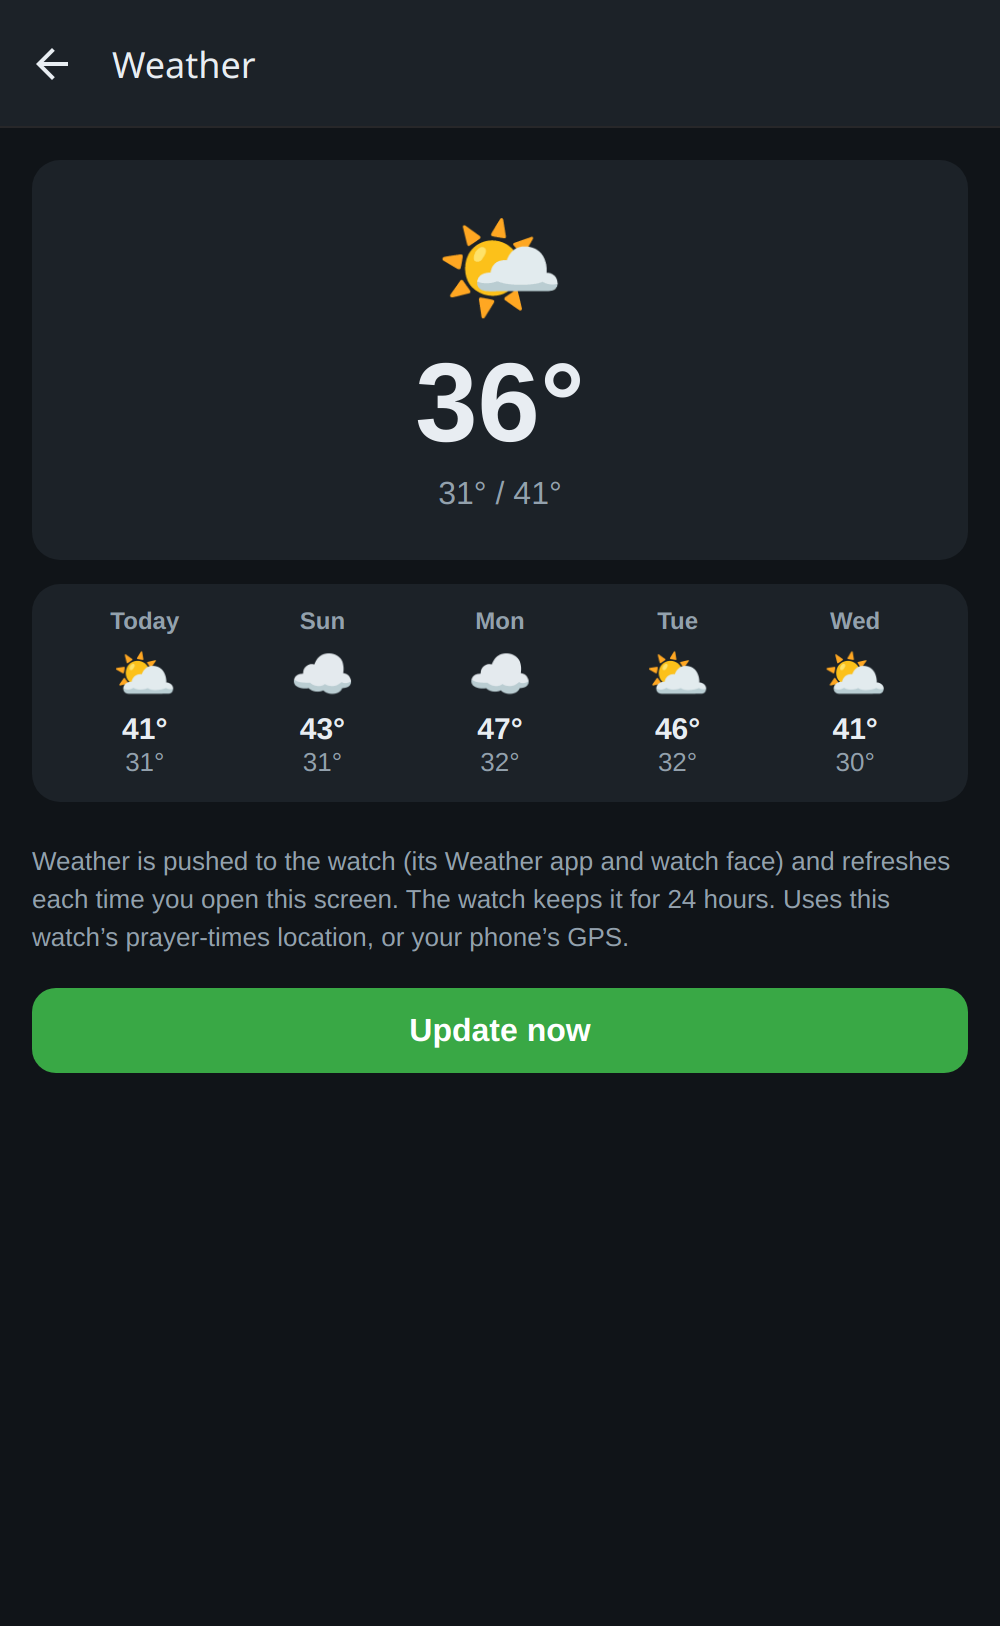
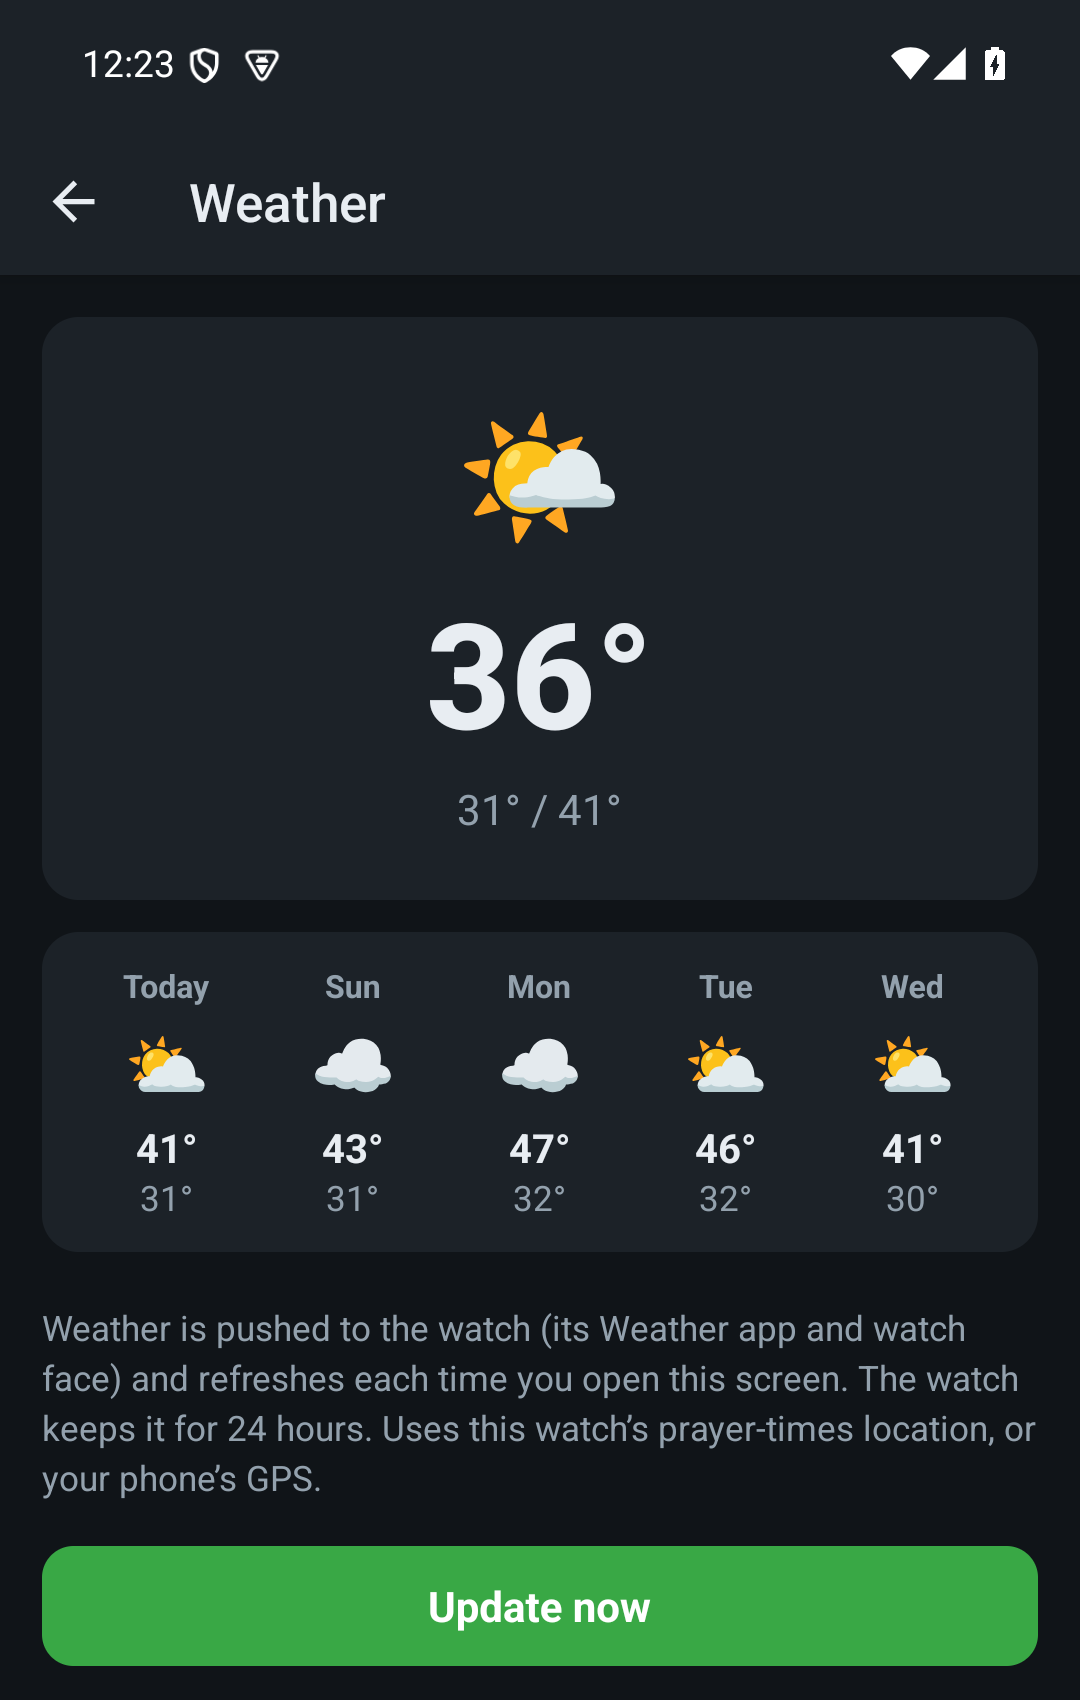
docs: capture companion guide screenshots from the real app
Wrong convention was baked into the guide: companion screenshots came from the
headless web export, which renders a fake phone and shows an 'Android only'
placeholder for anything Android-gated — so it couldn't depict forwarding at all.
Companion shots now default to the real Android app.

- Recaptured companion-hub, companion-weather, companion-steps from a
  self-contained release APK (debug-signed, JS bundled — no Metro), driven
  against the sim; added companion-notifications (the forwarding config screen,
  previously uncapturable on web).
- Notifications guide page now shows the phone config between the watch shots
  (forwarded alert -> companion Notifications -> Music app).
- README documents the app-default capture flow (release APK + sqlite seed +
  screencap).

Also fixes a real UX wart the capture surfaced: a media session with no
title/artist rendered 'Unknown - Unknown' on the now-playing line; it now reads
'Nothing playing'. 103 tests pass.

Still web-era (follow-up): companion pair/schedule/alarms/prayer/event-complex/
findmy/findmy-map/update.

diff --git a/src/screens/NotificationsScreen.tsx b/src/screens/NotificationsScreen.tsx
@@ -98,6 +98,11 @@ export function NotificationsScreen({ route }: Props) {
   }
 
   const paired = !!watch.deviceId;
+  // A media session with no title/artist isn't meaningfully "playing" anything.
+  const playingLabel =
+    nowPlaying && (nowPlaying.artist || nowPlaying.track)
+      ? `${nowPlaying.artist || 'Unknown'} — ${nowPlaying.track || 'Unknown'}`
+      : null;
 
   return (
     <ScrollView style={styles.container} contentContainerStyle={{ padding: spacing(2), paddingBottom: spacing(2) + insets.bottom }}>
@@ -128,9 +133,9 @@ export function NotificationsScreen({ route }: Props) {
 
       {watch.forwardNotifications && (
         <View style={styles.nowPlayingRow} testID="now-playing">
-          <Text style={styles.nowPlayingIcon}>{nowPlaying?.playing ? '🎵' : '🎧'}</Text>
+          <Text style={styles.nowPlayingIcon}>{playingLabel ? '🎵' : '🎧'}</Text>
           <Text style={styles.nowPlayingText} numberOfLines={1}>
-            {nowPlaying ? `${nowPlaying.artist || 'Unknown'} — ${nowPlaying.track || 'Unknown'}` : 'Nothing playing'}
+            {playingLabel ?? 'Nothing playing'}
           </Text>
         </View>
       )}

diff --git a/docs/guide/build-feature-guide.py b/docs/guide/build-feature-guide.py
@@ -158,8 +158,9 @@ parts.append(f"""
   <h2>Your phone on your wrist</h2>
   <p class="lead">On Android the app keeps a background connection to the watch and mirrors your phone &mdash; notifications, incoming calls, and now-playing music &mdash; all under one per-watch switch.</p>
   <div class="row center gap">
-    {watch("watch-notification.png", "A forwarded phone notification")}
-    {watch("watch-music.png", "Now-playing pushed to the Music app")}
+    {watch("watch-notification.png", "Forwarded notification")}
+    {phone("companion-notifications.png", "Companion → Notifications")}
+    {watch("watch-music.png", "Now-playing on the Music app")}
   </div>
   <div class="note">
     <b>Notification forwarding, per watch.</b> Turn on <b>Forward notifications</b> for a watch and the alerts from the apps you choose (a searchable allowlist) show up on its wrist; incoming calls ring it with the caller's name. It's <b>per watch on purpose</b> &mdash; forward to your own watch but not the kids'. A grant of Android's Notification Access is all it needs; a foreground service keeps the link alive with the app swiped away.

diff --git a/docs/guide/README.md b/docs/guide/README.md
@@ -4,8 +4,14 @@
 from this directory.
 
 - `assets/` — the source screenshots. `watch-*.png` are 240×240 InfiniSim captures
-  (via `pinetime-dev-tools/simctl.py shot`); `companion-*.png` are the exported web
-  app driven headlessly in Chrome against the simulator.
+  (via `pinetime-dev-tools/simctl.py shot`). `companion-*.png` are captured from the
+  **real Android app by default** — build a self-contained release APK
+  (`cd android && ./gradlew :app:assembleRelease`, which is debug-signed), install
+  it, seed state (adb + the app's AsyncStorage `RKStorage` sqlite, or drive the UI),
+  point it at the simulator (`deviceId` `10.0.2.2:18632`), and `adb exec-out
+  screencap`. Crop the empty bottom / nav pill. The headless web export is only a
+  fallback for screens with no Android-specific behaviour; anything gated to
+  Android (e.g. Notifications/forwarding) must come from the app.
 - `build-feature-guide.py` — embeds every asset as a base64 data URI and writes the
   self-contained `docs/feature-guide.html` (no external files, safe to open anywhere).
 